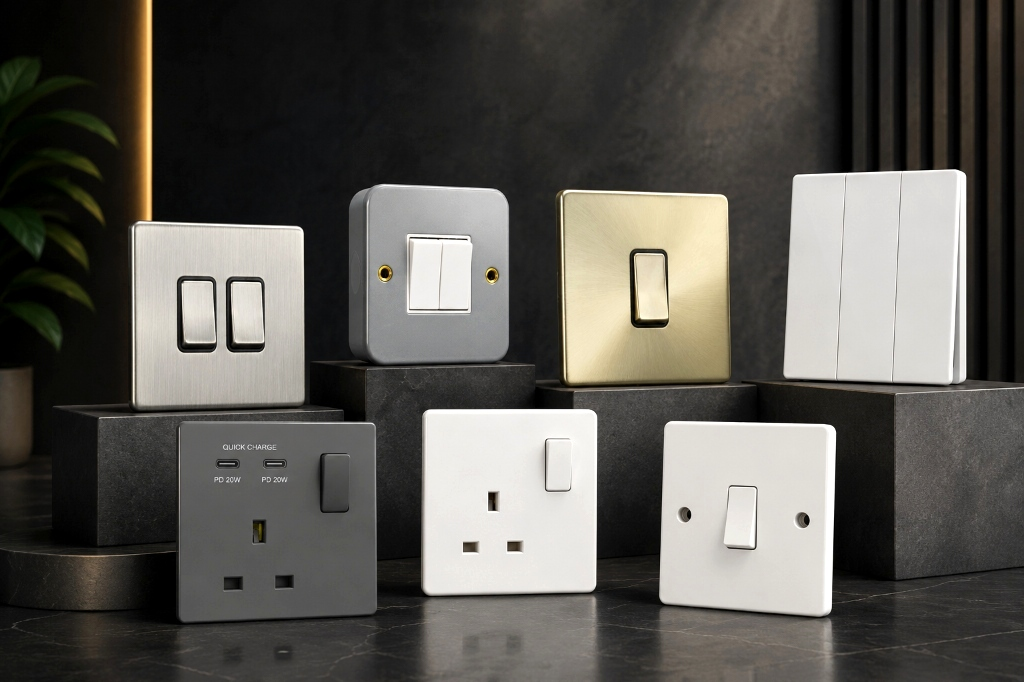
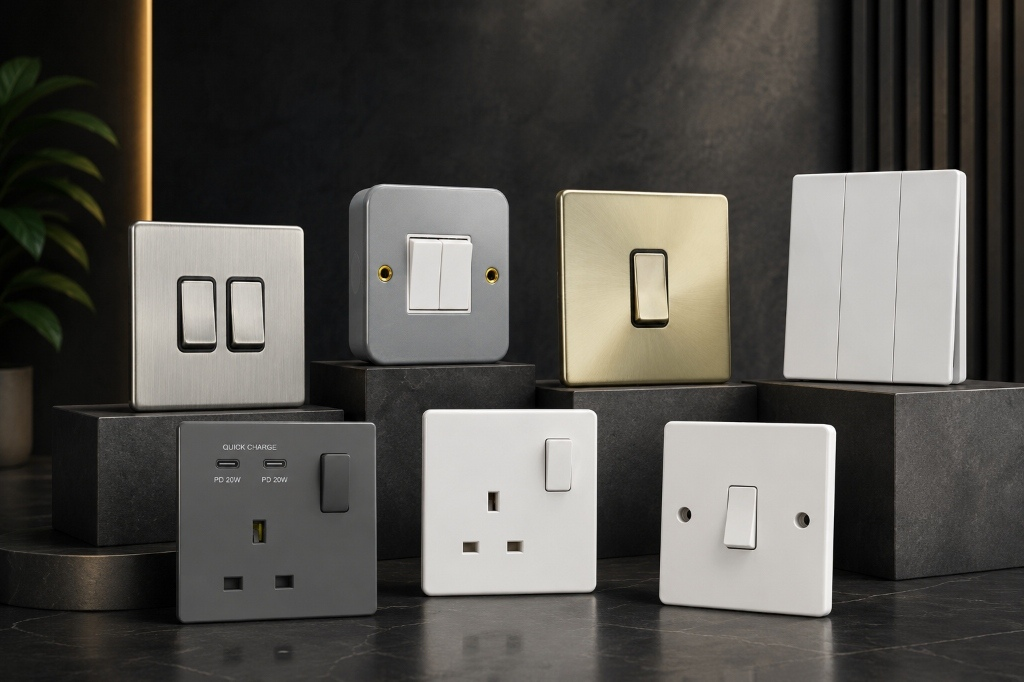
feat(switches): present full studio photograph in dedicated uncropped hero showcase frame

diff --git a/switches.html b/switches.html
@@ -34,13 +34,8 @@
     }
 
     .switches-hero {
-      background-image: linear-gradient(90deg, #0F172A 0%, rgba(15, 23, 42, 0.88) 32%, rgba(15, 23, 42, 0.3) 60%, transparent 100%), url('/assets/products/switches/switches_sockets_hero.webp');
-      background-size: cover;
-      background-position: center 65%;
-      min-height: calc(100vh - 70px);
-      padding: 60px 0;
-      display: flex;
-      align-items: center;
+      background-color: #0B0F17;
+      padding: 60px 0 70px 0;
       position: relative;
       border-bottom: 1px solid rgba(255, 255, 255, 0.08);
     }
@@ -216,13 +211,19 @@
   <!-- Hero Section -->
   <section class="switches-hero">
     <div class="container" style="max-width: 1240px; margin: 0 auto; padding: 0 24px; width: 100%;">
-      <div style="max-width: 560px;">
-        <span style="font-size: 13px; font-weight: 700; color: #FF1A1A; text-transform: uppercase; letter-spacing: 2px; display: block; margin-bottom: 16px;">COLLECTION SHOWCASE</span>
-        <h1 style="font-family: var(--font-heading); font-size: 50px; font-weight: 800; color: #FFFFFF; line-height: 1.1; margin-bottom: 22px; letter-spacing: -1px;">Switches & Sockets</h1>
-        <p style="font-size: 16px; color: #CBD5E1; line-height: 1.65; margin-bottom: 36px;">
+      <!-- Top Text Banner Header -->
+      <div style="text-align: center; max-width: 720px; margin: 0 auto 36px auto;">
+        <span style="font-size: 13px; font-weight: 700; color: #FF1A1A; text-transform: uppercase; letter-spacing: 2px; display: block; margin-bottom: 12px;">COLLECTION SHOWCASE</span>
+        <h1 style="font-family: var(--font-heading); font-size: 48px; font-weight: 800; color: #FFFFFF; line-height: 1.1; margin-bottom: 16px; letter-spacing: -1px;">Switches & Sockets</h1>
+        <p style="font-size: 16px; color: #94A3B8; line-height: 1.65; margin-bottom: 24px;">
           Artistry in connectivity. Discover our wide range of premium switches, switched sockets, industrial metal-clad panels, and gold bezels. Engineered to meet safety regulations while offering state-of-the-art designs.
         </p>
-        <a href="#ranges" class="hero-btn" style="background-color: #FF1A1A; color: #FFFFFF; padding: 15px 32px; border-radius: 30px; font-weight: 700; font-size: 14px; text-decoration: none; display: inline-flex; align-items: center; gap: 8px; transition: var(--transition-smooth); box-shadow: 0 10px 25px rgba(255,26,26,0.35);">Explore Ranges <span class="arrow">↓</span></a>
+        <a href="#ranges" class="hero-btn" style="background-color: #FF1A1A; color: #FFFFFF; padding: 12px 28px; border-radius: 30px; font-weight: 700; font-size: 13.5px; text-decoration: none; display: inline-flex; align-items: center; gap: 8px; transition: var(--transition-smooth); box-shadow: 0 8px 20px rgba(255,26,26,0.3);">Explore Ranges <span class="arrow">↓</span></a>
+      </div>
+
+      <!-- Full Uncropped Studio Image Showcase Box -->
+      <div style="max-width: 1100px; margin: 0 auto; border-radius: 24px; overflow: hidden; border: 1px solid rgba(255,255,255,0.12); box-shadow: 0 25px 60px rgba(0,0,0,0.6); background: #161F30;">
+        <img src="/assets/products/switches/switches_sockets_hero.jpg" alt="Switches & Sockets Collection Complete Showcase" style="width: 100%; height: auto; display: block; object-fit: contain; border-radius: 24px;">
       </div>
     </div>
   </section>
